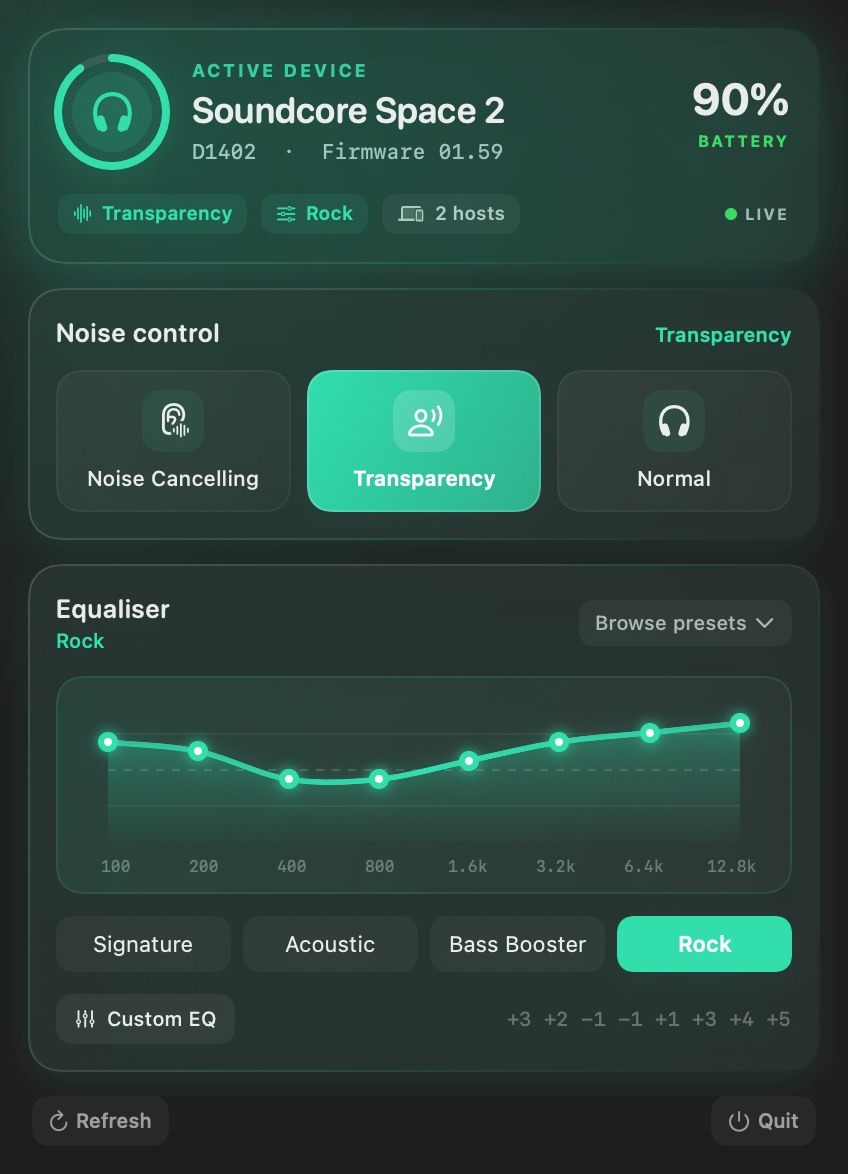
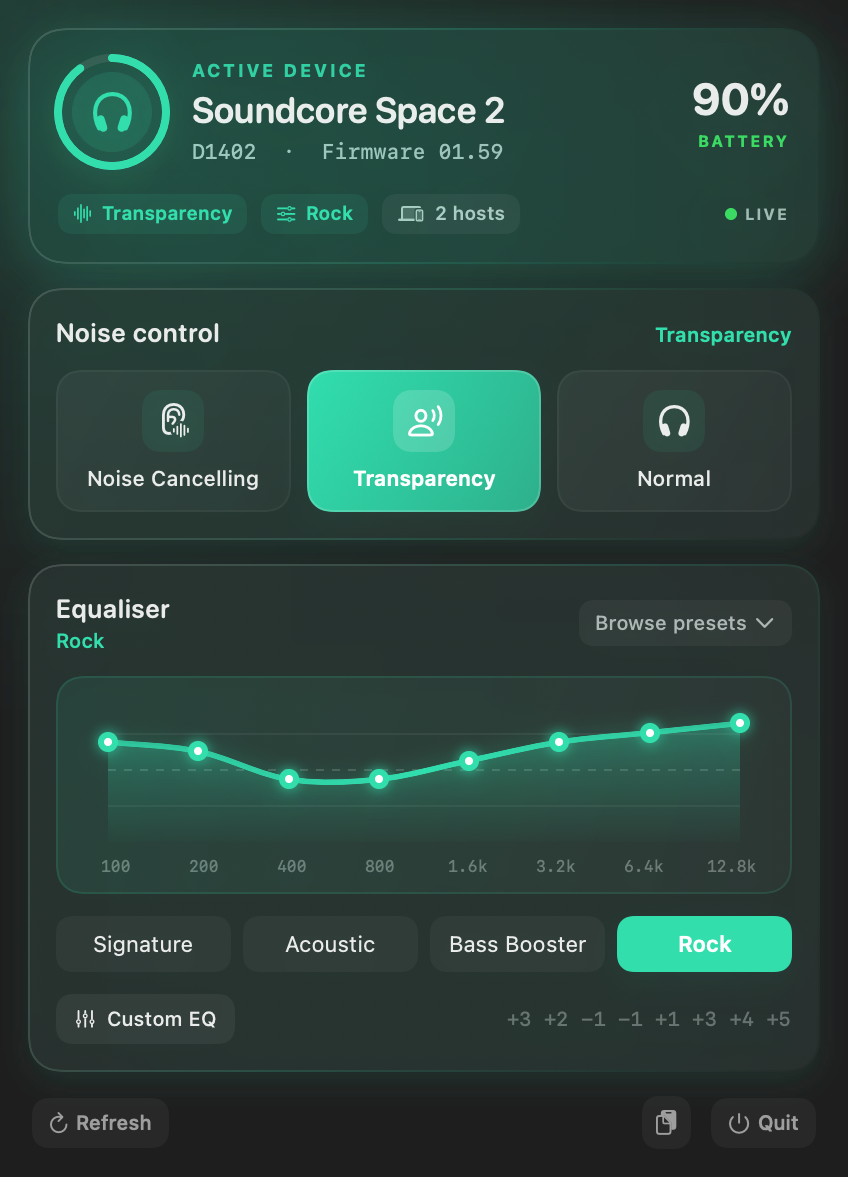
Add device support reports to the app and CLI (#13)

diff --git a/docs/index.html b/docs/index.html
@@ -9,10 +9,10 @@
 <link rel="icon" href="icon.png">
 <meta property="og:title" content="SoundcoreBridge">
 <meta property="og:description" content="Your Soundcore. Now speaks Mac.">
-<meta property="og:image" content="img/panel-anc.png?v=20260916">
-<link rel="preload" as="image" href="img/panel-anc.png?v=20260916">
-<link rel="preload" as="image" href="img/panel-ambient.png?v=20260916">
-<link rel="preload" as="image" href="img/panel-normal.png?v=20260916">
+<meta property="og:image" content="img/panel-anc.png?v=20260917">
+<link rel="preload" as="image" href="img/panel-anc.png?v=20260917">
+<link rel="preload" as="image" href="img/panel-ambient.png?v=20260917">
+<link rel="preload" as="image" href="img/panel-normal.png?v=20260917">
 <style>
 :root{
   --bg:#0b0f16; --bg-2:#0e141d; --panel:#141a25; --panel-2:#192231;
@@ -126,10 +126,9 @@ h1 span{color:var(--theme)}
 .mode-option:active{transform:scale(.97)}
 .mode-option.active{color:#fff;background:linear-gradient(145deg,var(--demo),rgba(var(--demo-rgb),.72));
                     border-color:rgba(255,255,255,.16);box-shadow:0 9px 22px -12px rgba(var(--demo-rgb),.9)}
-.panel-window{position:relative;width:min(100%,365px);aspect-ratio:424/650;display:flex;align-items:flex-start;
+.panel-window{position:relative;width:min(100%,365px);display:flex;align-items:flex-start;
               justify-content:center;filter:drop-shadow(0 38px 42px rgba(0,0,0,.48));
               transition:filter .4s var(--ease),transform .35s var(--ease)}
-.demo-stage:not([data-mode="anc"]) .panel-window{aspect-ratio:424/587}
 .panel-window:hover{transform:translateY(-4px);filter:drop-shadow(0 46px 48px rgba(0,0,0,.54))}
 .app-preview{display:block;width:100%;max-width:365px;height:auto;margin-inline:auto;border-radius:20px}
 .panel-window img{transition:opacity .2s var(--ease),transform .25s var(--ease)}
@@ -348,7 +347,7 @@ footer{border-top:1px solid var(--line);padding:56px 0 70px;color:var(--faint);f
       </div>
 
       <div class="panel-window" id="panelWindow">
-        <img class="app-preview" id="panelPreview" src="img/panel-anc.png?v=20260916" width="848" height="1300"
+        <img class="app-preview" id="panelPreview" src="img/panel-anc.png?v=20260917" width="848" height="1303"
              alt="The current SoundcoreBridge panel in Noise Cancelling mode">
       </div>
 
@@ -390,7 +389,7 @@ footer{border-top:1px solid var(--line);padding:56px 0 70px;color:var(--faint);f
       <div class="panel">
         <div class="pl">MENU BAR APP</div>
         <h3>Control that belongs on macOS.</h3>
-        <img class="app-preview" src="img/panel-ambient.png?v=20260916" width="848" height="1174" loading="lazy"
+        <img class="app-preview" src="img/panel-ambient.png?v=20260917" width="848" height="1177" loading="lazy"
              alt="The current SoundcoreBridge panel in Transparency mode">
       </div>
       <div class="panel">
@@ -506,9 +505,9 @@ const panelPreview=document.getElementById('panelPreview');
 const demoModeLabel=document.getElementById('demoModeLabel');
 const reduceMotion=matchMedia('(prefers-reduced-motion: reduce)').matches;
 const modes={
-  anc:{label:'Noise Cancelling',rgb:'74,158,255',src:'img/panel-anc.png?v=20260916',height:1300},
-  ambient:{label:'Transparency',rgb:'38,208,166',src:'img/panel-ambient.png?v=20260916',height:1174},
-  normal:{label:'Normal',rgb:'255,163,71',src:'img/panel-normal.png?v=20260916',height:1174}
+  anc:{label:'Noise Cancelling',rgb:'74,158,255',src:'img/panel-anc.png?v=20260917',height:1303},
+  ambient:{label:'Transparency',rgb:'38,208,166',src:'img/panel-ambient.png?v=20260917',height:1177},
+  normal:{label:'Normal',rgb:'255,163,71',src:'img/panel-normal.png?v=20260917',height:1177}
 };
 function setDemoMode(key){
   const mode=modes[key];

diff --git a/Sources/soundcorectl/SelfTest.swift b/Sources/soundcorectl/SelfTest.swift
@@ -115,6 +115,36 @@ func modeSelfTest() {
     if !decodeOK { failures += 1 }
     log("  \(decodeOK ? "PASS" : "FAIL")  Space 2 state blob decodes through its profile")
 
+    log("\nsupport reports")
+    let verifiedReport = SupportReport(profile: space2, state: decoded, connected: true, channel: 30).text
+    let verifiedReportOK = verifiedReport.contains("Model code: 1402")
+        && verifiedReport.contains("Control support: Verified model")
+        && verifiedReport.contains("RFCOMM channel: 30")
+        && !verifiedReport.contains("849D4BB0798F")
+        && !verifiedReport.contains(hex(sampleSpace2State()))
+    if !verifiedReportOK { failures += 1 }
+    log("  \(verifiedReportOK ? "PASS" : "FAIL")  reports verified identity without raw payload or embedded address")
+
+    let unknownReport = SupportReport(profile: nameOnly,
+                                     state: parseState(misleadingState, profile: nameOnly),
+                                     connected: true, channel: 17).text
+    let unknownReportOK = unknownReport.contains("Model code: 9999")
+        && unknownReport.contains("Read-only; model not verified")
+        && !unknownReport.contains("soundMode") && !unknownReport.contains("equaliser")
+    if !unknownReportOK { failures += 1 }
+    log("  \(unknownReportOK ? "PASS" : "FAIL")  unknown model report does not claim verified controls")
+
+    let offlineReport = SupportReport(profile: space2, state: decoded, connected: false, channel: 30).text
+    var malformed = decoded!
+    malformed.firmware = "01.59\nprivate"
+    let malformedReport = SupportReport(profile: space2, state: malformed, connected: true, channel: 30).text
+    let staleReportOK = offlineReport.contains("Model code: Not available")
+        && offlineReport.contains("RFCOMM channel: Not available")
+        && offlineReport.contains("Profile features: None identified")
+        && !malformedReport.contains("private")
+    if !staleReportOK { failures += 1 }
+    log("  \(staleReportOK ? "PASS" : "FAIL")  omits disconnected identity and rejects malformed text fields")
+
     log(failures == 0 ? "\nall checks passed" : "\n\(failures) FAILURE(S)")
     exit(failures == 0 ? 0 : 1)
 }

diff --git a/Sources/soundcorectl/SupportReport.swift b/Sources/soundcorectl/SupportReport.swift
@@ -1,0 +1,43 @@
+import Foundation
+
+/// An allowlisted summary: never accepts Bluetooth names, addresses, raw
+/// packets, or logs, which can contain identifiers belonging to other hosts.
+struct SupportReport {
+    let profile: DeviceProfile
+    let state: DeviceState?
+    let connected: Bool
+    let channel: UInt8?
+
+    var text: String {
+        // A disconnected controller can still hold the previous device's state.
+        let current = connected ? state : nil
+        let identified = current != nil
+        let features = identified ? DeviceFeature.allCases.filter(profile.supports).map(\.rawValue) : []
+        let os = ProcessInfo.processInfo.operatingSystemVersion
+        let version = Bundle.main.object(forInfoDictionaryKey: "CFBundleShortVersionString") as? String ?? "source build"
+        return """
+        SoundcoreBridge device support report
+        Report format: 1
+        App version: \(version)
+        macOS: \(os.majorVersion).\(os.minorVersion).\(os.patchVersion)
+        Connection: \(connected ? "Connected" : "Not connected")
+        Model code: \(Self.field(current?.model))
+        Firmware: \(Self.field(current?.firmware))
+        Profile: \(identified ? profile.displayName : "Not identified")
+        Control support: \(identified ? (profile.allowsWrites ? "Verified model" : "Read-only; model not verified") : "Unavailable until identified")
+        RFCOMM channel: \(connected ? channel.map(String.init) ?? "Not available" : "Not available")
+        Profile features: \(features.isEmpty ? "None identified" : features.joined(separator: ", "))
+
+        Bluetooth names, addresses, raw packets, and logs are excluded.
+        Unknown-model fields are tentative until confirmed against a capture.
+        Add your headphone model name and the problem when submitting an issue.
+        """
+    }
+
+    private static func field(_ value: String?) -> String {
+        guard let value, !value.isEmpty, value.count <= 16,
+              value.utf8.allSatisfy({ (48...57).contains($0) || (65...90).contains($0)
+                  || (97...122).contains($0) || $0 == 46 || $0 == 45 }) else { return "Not available" }
+        return value
+    }
+}

diff --git a/Sources/soundcorectl/main.swift b/Sources/soundcorectl/main.swift
@@ -13,6 +13,7 @@ USAGE
 
 MODES
   selftest               Verify the codec against known-good packets (no headset)
+  support-report         Read device identity and print a shareable support report
   sdp                    List paired devices and dump SDP service records
   probe                  Open the control channel, send device-info, dump replies
   sweep                  Read-only command sweep: find which commands answer
@@ -35,6 +36,7 @@ OPTIONS
   --allow-writes         Permit commands with the high bit set (mutating)
   --any-channel          Bypass the channel allowlist (OTA channels stay blocked)
   --raw                  Also print raw stream chunks before reassembly
+  --out <path>           support-report: save to a new text file
 
 SAFETY
   Space 2 channels 12 (TOTA) and 13 (BESOTA) flash firmware and are hard-blocked.
@@ -111,6 +113,24 @@ func identify(_ link: RFCOMMLink) throws -> (DeviceProfile, DeviceState) {
     }
     guard let result else { throw ProbeError("no valid device state returned") }
     return result
+}
+
+/// Read identity only: no handshake, control writes, packet dumps, or name logs.
+func modeSupportReport() throws {
+    let device = try RFCOMMLink.find(address: args.str("device"))
+    let preferred = DeviceRegistry.profile(bluetoothName: device.name ?? "")?.rfcommChannels ?? []
+    let opened = try RFCOMMLink.openControl(device: device, preferred: preferred)
+    let link = opened.link
+    activeLink = link
+    defer { link.close(); activeLink = nil }
+    let (profile, state) = try identify(link)
+    let report = SupportReport(profile: profile, state: state, connected: true, channel: opened.channel).text
+    if let path = args.str("out") {
+        try Data((report + "\n").utf8).write(to: URL(fileURLWithPath: path), options: .withoutOverwriting)
+        log("Support report saved.")
+    } else {
+        log(report)
+    }
 }
 
 func modeSDP() throws {
@@ -561,6 +581,7 @@ func stamp() -> String {
 do {
     switch args.mode {
     case "selftest": modeSelfTest()
+    case "support-report": try modeSupportReport()
     case "sdp":      try modeSDP()
     case "probe":    try modeProbe()
     case "sweep":    try modeSweep()

diff --git a/Sources/soundcorectl/MenuBar.swift b/Sources/soundcorectl/MenuBar.swift
@@ -491,6 +491,7 @@ struct MenuContent: View {
     @State private var showCustomEQ = false
     @State private var editorBands = Array(repeating: UInt8(0x78), count: 8)
     @State private var isEditing = false
+    @State private var reportCopied = false
 
     private let presetColumns = [GridItem(.adaptive(minimum: 120, maximum: 190), spacing: 6)]
     private let bandLabels = ["100", "200", "400", "800", "1.6k", "3.2k", "6.4k", "12.8k"]
@@ -1054,6 +1055,22 @@ struct MenuContent: View {
             .help("Refresh device state")
 
             Spacer()
+
+            Button {
+                let report = SupportReport(profile: dev.profile, state: dev.state,
+                                           connected: dev.connected, channel: dev.connectedChannel)
+                NSPasteboard.general.clearContents()
+                reportCopied = NSPasteboard.general.setString(report.text, forType: .string)
+            } label: {
+                Image(systemName: reportCopied ? "checkmark" : "doc.on.clipboard")
+                    .font(.caption2.weight(.medium))
+                    .padding(6)
+                    .background(Color.primary.opacity(0.05), in: RoundedRectangle(cornerRadius: 8, style: .continuous))
+            }
+            .buttonStyle(PanelButtonStyle())
+            .foregroundStyle(.secondary)
+            .accessibilityLabel(reportCopied ? "Support report copied. Copy again" : "Copy support report")
+            .help("Copy a device support report without Bluetooth names or addresses")
 
             Button {
                 NSApplication.shared.terminate(nil)

diff --git a/docs/DEVELOPMENT.md b/docs/DEVELOPMENT.md
@@ -42,6 +42,8 @@ The project is split into a command-line interface (`soundcorectl`, alias `space
   - Keeps unidentified devices read-only; a Bluetooth display name alone never enables writes.
 - **`Sources/soundcorectl/SelfTest.swift`**
   - Diagnostic suite. Runs mock encodings, parser tests, packet reassembly verifications, and preset integrity tests without requiring a real Bluetooth device connected.
+- **`Sources/soundcorectl/SupportReport.swift`**
+  - Shared allowlisted report for the CLI and menu-bar clipboard action. Excludes Bluetooth names, addresses, raw packets, and logs; omits stale identity when disconnected.
 - **`Sources/soundcorectl/Util.swift`**
   - Diagnostic output helpers (hexdump, hex formatter), argument parsing structure, and thread run-loop pumping utilities.
 
@@ -127,6 +129,12 @@ swift run soundcorectl selftest
 ```
 
 ### 2. Live Probing & Analysis
+For an initial device-support issue, use the app's clipboard button or quit the
+app and run `swift run soundcorectl support-report --out support-report.txt`.
+This command uses safe channel discovery and the identity read only; it never
+runs a control handshake or accepts channel/write overrides. The report helps
+triage a model but is not evidence sufficient to enable its controls.
+
 If investigating protocol behavior or testing connection quality, use the CLI diagnostic commands:
 - **List Paired & SDP Records**: `swift run soundcorectl sdp`
 - **One-Shot State Probe**: `swift run soundcorectl probe --cmd 01:01`

diff --git a/README.md b/README.md
@@ -16,7 +16,7 @@
 <p align="center"><sub>Free and open source. If it saves you reaching for your phone, a ⭐ helps others find it.</sub></p>
 
 <p align="center">
-  <img src="docs/img/panel-anc.png?v=20260916" width="360" alt="The current SoundcoreBridge menu bar panel">
+  <img src="docs/img/panel-anc.png?v=20260917" width="360" alt="The current SoundcoreBridge menu bar panel">
 </p>
 
 ## The problem
@@ -74,6 +74,7 @@ soundcorectl status
 soundcorectl anc nc --level 5
 soundcorectl eq rock
 soundcorectl eq "6,4,2,0,0,-2,-4,-6"
+soundcorectl support-report --out support-report.txt
 ```
 
 ## Supported headphones
@@ -90,7 +91,10 @@ guessing, because wrong offsets written to headphones are how they end up in
 odd states.
 
 Got one that isn't listed? [Open an issue](https://github.com/mervin008/soundcorebridge/issues/new/choose)
-— it's mostly a matter of confirming what it does.
+and include a support report from the clipboard button beside Quit in the app.
+Reports include model, firmware, and profile details without Bluetooth names,
+addresses, or raw packets. This helps identify what needs to be verified;
+enabling controls still requires captures from the actual model.
 
 ## How it works
 

diff --git a/CONTRIBUTING.md b/CONTRIBUTING.md
@@ -7,12 +7,20 @@ Thanks for taking a look.
 [Open an issue](https://github.com/mervin008/soundcorebridge/issues/new/choose).
 Anyone can — you don't need write access to the repo.
 
-If it's about a device, please include the output of:
+If it's about a device, click the clipboard button beside Quit in the menu-bar
+app to copy a support report. It excludes Bluetooth names, addresses, raw
+packets, and logs. Add your headphone model name and describe the problem.
+
+Or quit the menu-bar app to release its Bluetooth connection, then run:
 
 ```sh
-soundcorectl status
-soundcorectl sdp
+soundcorectl support-report --out support-report.txt
 ```
+
+The command reads device identity without running a control handshake or
+changing headphone settings. It creates a new file and refuses to overwrite an
+existing one. If connection fails, copy the app report and describe the error;
+review any additional terminal output before sharing it.
 
 ## Adding support for another Soundcore model
 
